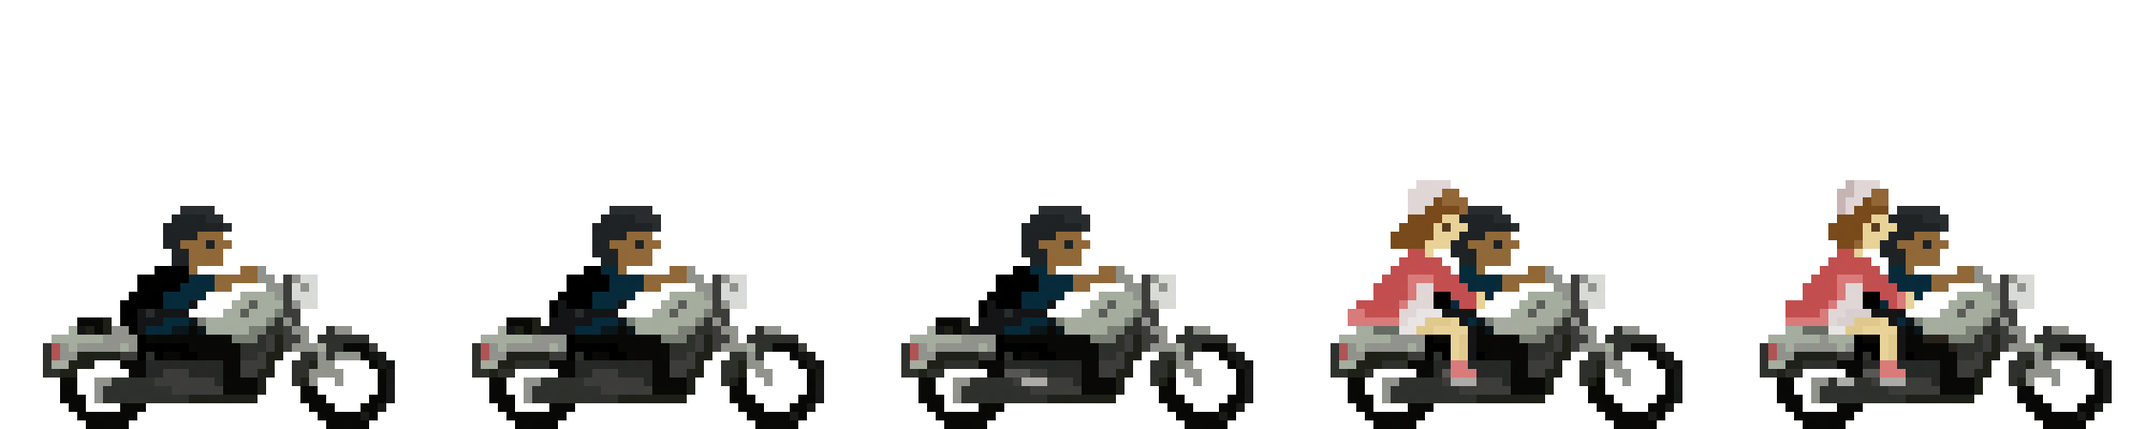
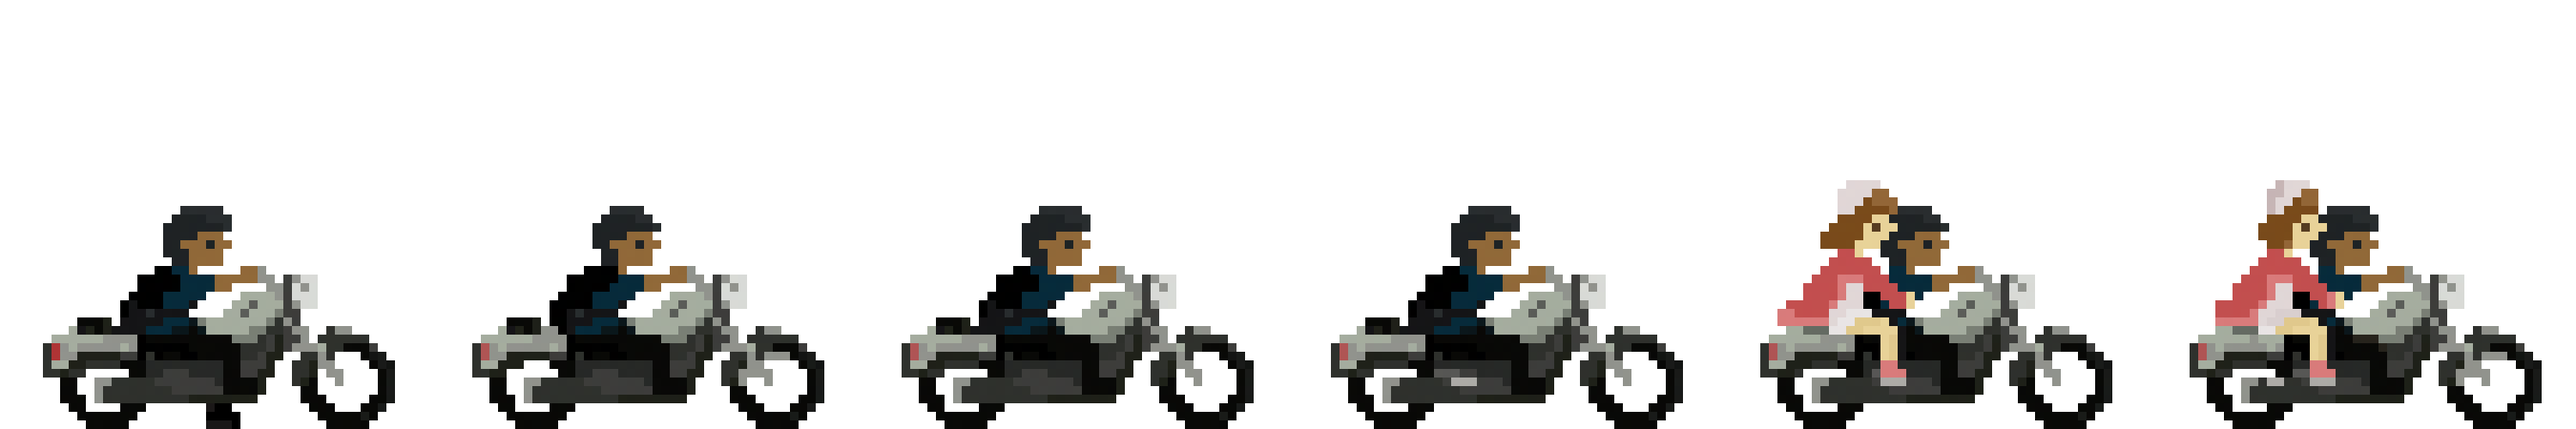
Add: Ground parallax

Changed region(s): [[0.0, 0.42, 0.9984, 1.0]]

diff --git a/src/index.js b/src/index.js
@@ -6,25 +6,30 @@ class MyGame extends Phaser.Scene {
   }
 
   preload() {
-    this.load.audio('bgm', ['./src/assets/bgm.mp3']);
+    // this.load.audio('bgm', ['./src/assets/bgm.mp3']);
+    this.load.image('asphalt', './src/assets/asphalt.png');
 
     this.load.spritesheet('rebel', './src/assets/rebel.png', {
       frameWidth: 500,
       frameHeight: 500
     });
 
-    this.load.spritesheet('road', './src/assets/road.png', {
-      frameWidth: 500,
-      frameHeight: 500
-    })
+    // this.load.spritesheet('road', './src/assets/road.png', {
+    //   frameWidth: 500,
+    //   frameHeight: 500
+    // })
 
-    this.load.spritesheet('bg', './src/assets/bg.png', {
-      frameWidth: 500,
-      frameHeight: 500
-    })
+    // this.load.spritesheet('bg', './src/assets/bg.png', {
+    //   frameWidth: 500,
+    //   frameHeight: 500
+    // })
   }
 
   create() {
+
+    // Key input
+    this.cursorKeys = this.input.keyboard.createCursorKeys();
+
     // BGM
     // this.bgm = this.sound.add('bgm');
     // let musicConfig = {
@@ -41,13 +46,19 @@ class MyGame extends Phaser.Scene {
 
     // Rebel
     this.rebel = this.add.sprite(300, 200, 'rebel').setDepth(5);
+
     this.anims.create({
-      key: 'rebel_anim',
-      frames: this.anims.generateFrameNumbers('rebel',
-        {start: 0, end: 2}),
-      frameRate: 10,
+      key: 'move_anim',
+      frames: this.anims.generateFrameNumbers('rebel', {start: 1, end: 3}),
+      frameRate: 18,
       repeat: -1
-    }); 
+    });
+
+    this.anims.create({
+      key: 'idle',
+      frames: this.anims.generateFrameNumbers('rebel', {start: 0, end: 0}),
+      frameRate: 1,
+    })
 
     // this.anims.create({
     //   key: 'kato_anim',
@@ -62,6 +73,10 @@ class MyGame extends Phaser.Scene {
     // this.road2 = this.add.sprite(500, 360, 'road').setDepth(4);
     // this.road3 = this.add.sprite(1000, 360, 'road').setDepth(4);
 
+    // this.asphalt = this.add.image(50, 450, 'asphalt').setDepth(4);
+    this.asphalt = this.add.tileSprite(0, 400, game.config.width, game.config.height, 'asphalt')
+      .setOrigin(0, 0).setScrollFactor(0);
+
     // this.anims.create({
     //   key: 'road_anim',
     //   frames: this.anims.generateFrameNumbers('road'),
@@ -74,20 +89,36 @@ class MyGame extends Phaser.Scene {
     // this.bg = this.add.image(700, 240, 'bg').setDepth(0);
     // this.bg = this.add.image(1000, 240, 'bg').setDepth(0);
 
-    this.rebel.play('rebel_anim');
+    // this.rebel.play('move_anim');
     // this.road.play('road_anim');
     // this.road2.play('road_anim');
     // this.road3.play('road_anim');
+    // this.cameras.main.startFollow(this.rebel);
+  }
+
+  update() {
+    // this.cameras.main.startFollow(this.rebel);
+    // this.asphalt.tilePositionX = this.cameras.x * -1;
+
+    if (this.cursorKeys.up.isDown) {
+      this.rebel.play('move_anim', true);
+      this.asphalt.tilePositionX += 8;
+      // this.cameras.main.startFollow(this.rebel);
+      // this.asphalt.tilePositionX = this.cameras.x * .00000000000000002;
+      // this.cameras.main.startFollow(this.rebel);
+      // this.asphalt.tilePositionX = this.cameras.main.scrollX * .3;
+      // this.rebel.anims.msPerFrame = 20;
+    } else {
+      this.rebel.play('idle', true);
+    }
   }
 }
 
-const config = {
+const game = new Phaser.Game({
   type: Phaser.AUTO,
   parent: 'phaser-example',
   width: 1200,
   height: 500,
-  transparent: true,
+  backgroundColor: '#99d6f0',
   scene: MyGame
-};
-
-const game = new Phaser.Game(config);
+});

diff --git a/index.html b/index.html
@@ -12,6 +12,7 @@
       height: 95vh;
       margin: 0;
       background-color: #f8f6bd;
+      /* background-color: #99d6f0; */
       /* background-color: red; */
       /* transition: background-color 5s ease-in; */
     }
